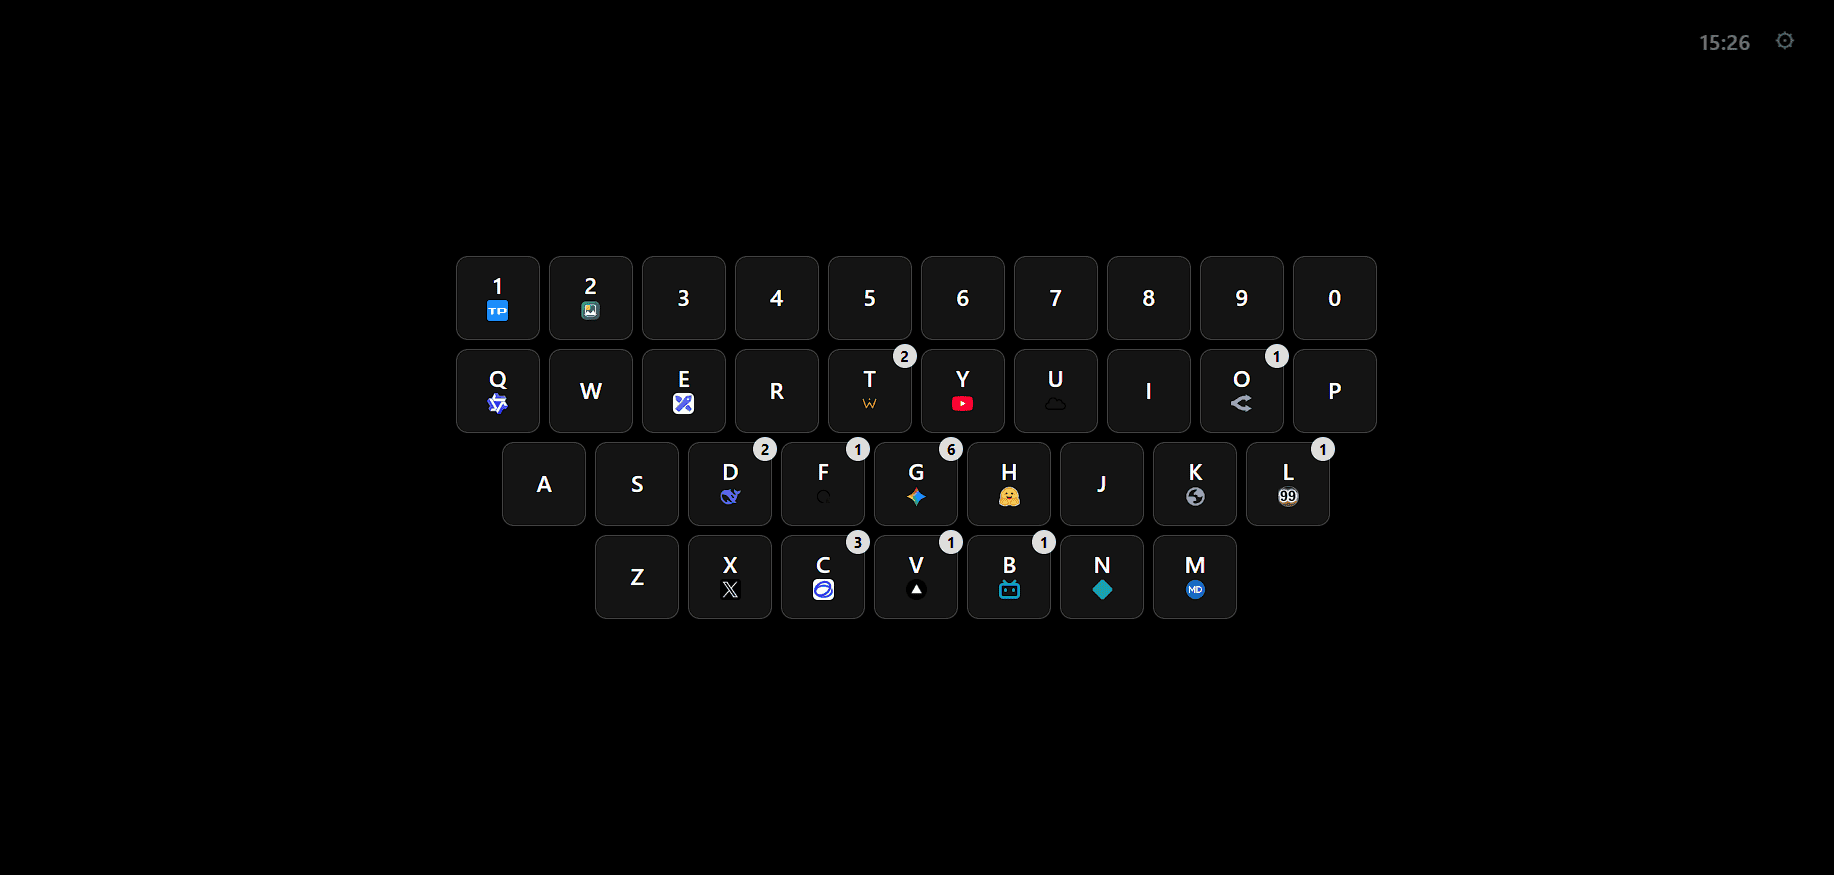
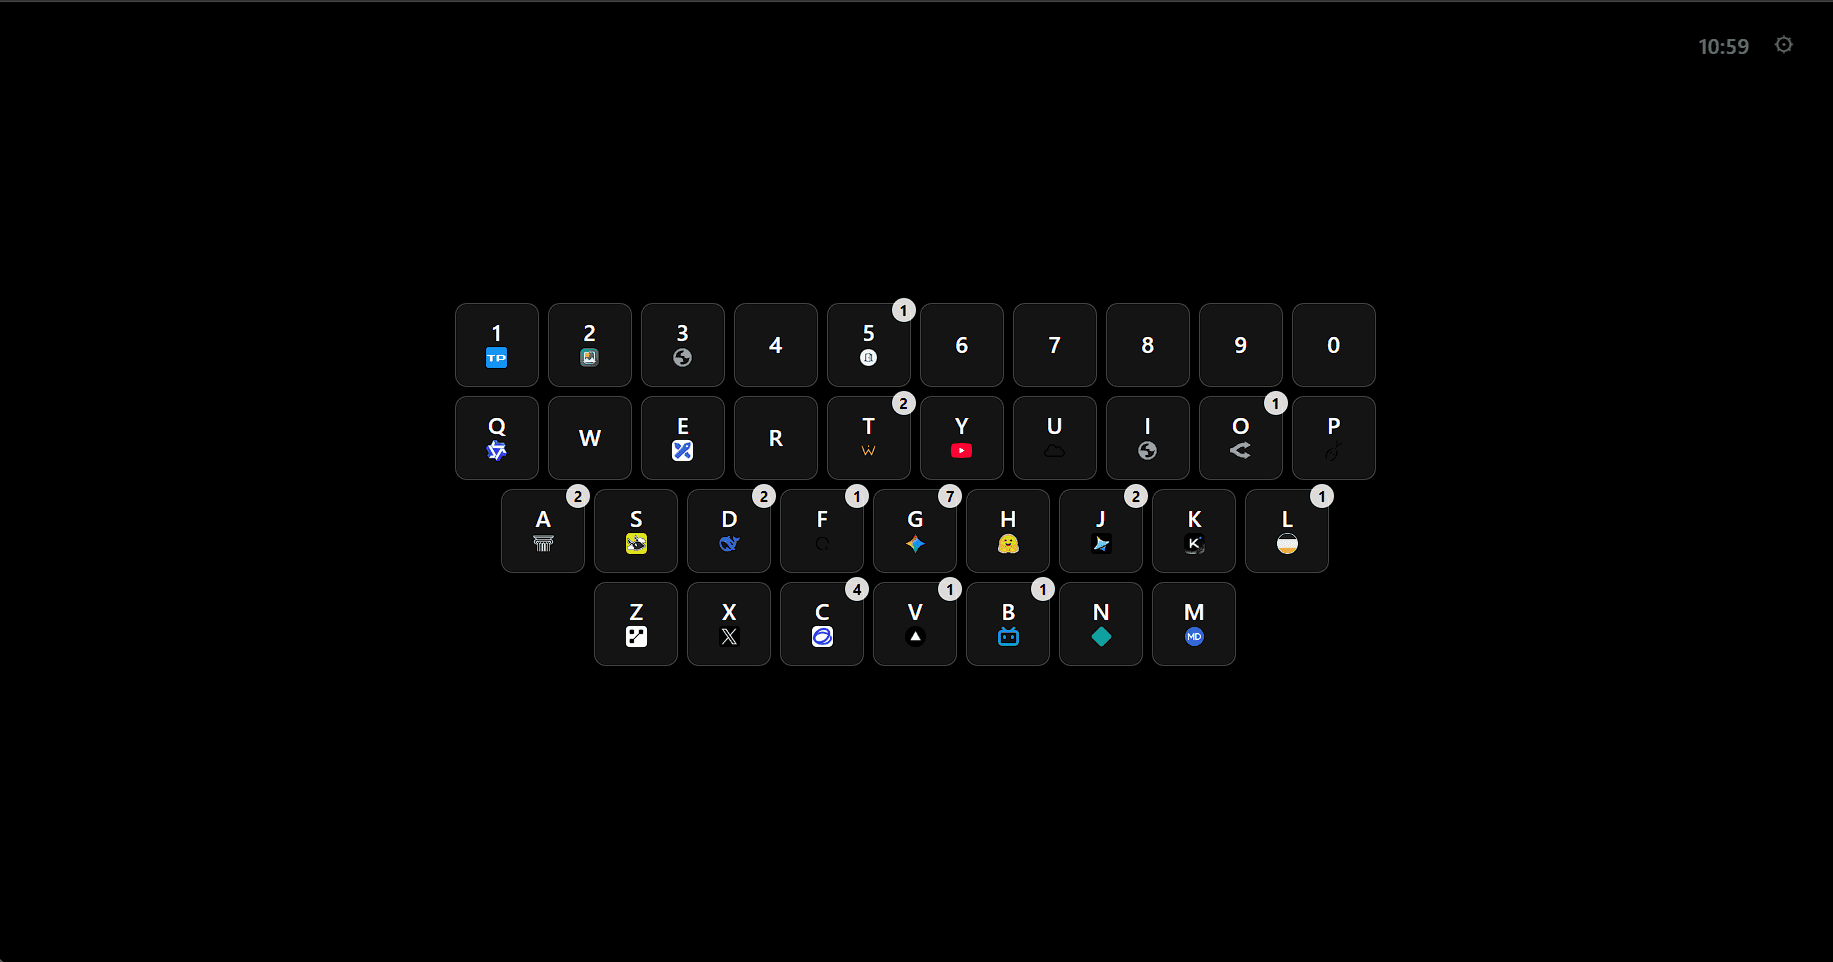
Site updated: 2026-06-09 11:01:45

diff --git a/blog/posts/zapstarttab/index.html b/blog/posts/zapstarttab/index.html
@@ -1,1 +1,1 @@
-<!DOCTYPE html><html><head><meta charset="UTF-8"><meta name="viewport" content="width=device-width, initial-scale=1.0"><title>ZapStartTab - 只是专注于打开网页的简陋新标签页 - for_the_zero的个人博客</title><link rel="icon" href="../../../assets/icon.svg" type="image/svg+xml"><link rel="preconnect" href="https://fonts.googleapis.com"><link rel="preconnect" href="https://fonts.gstatic.com" crossorigin><link rel="stylesheet" href="../../../assets/index-KBQHjjpf.css"><meta name="robots" content="index, follow"><meta name="cate" content="开发"><meta property="article:tag" content="项目介绍"><meta property="article:tag" content="前端"><meta property="article:tag" content="WebStack"><meta property="og:type" content="article"><meta property="og:url" content="https://ftz.is-a.dev/blog/posts/zapstarttab/"><meta property="og:locale" content="zh_CN"><meta property="article:modified_time" content="2026-06-07T16:00:00.000Z"><meta name="author" content="for_the_zero"><meta property="article:author" content="for_the_zero"><script defer src="https://cloud.umami.is/script.js" data-website-id="789c080e-8e99-4d72-bfce-7247187e96cc" data-exclude-query="true" data-exclude-hash></script><script src="https://giscus.app/client.js" data-repo="for-the-zero/for-the-zero.github.io" data-repo-id="R_kgDOPjQncg" data-category="Giscus" data-category-id="DIC_kwDOPjQncs4C0erQ" data-mapping="pathname" data-strict="0" data-reactions-enabled="1" data-emit-metadata="1" data-input-position="top" data-theme="preferred_color_scheme" data-lang="zh-CN" crossorigin="anonymous" async></script></head><body><mdui-top-app-bar scroll-behavior="elevate shrink" variant="large"><mdui-button-icon class="back-btn" href="../../"><mdui-icon-arrow-back></mdui-icon-arrow-back></mdui-button-icon><mdui-button-icon class="sidebar-open-btn"><mdui-icon-menu></mdui-icon-menu></mdui-button-icon><mdui-top-app-bar-title>ZapStartTab - 只是专注于打开网页的简陋新标签页</mdui-top-app-bar-title><div style="flex-grow: 1"></div><mdui-tooltip content="" placement="left"><mdui-button-icon class="open-content-drawer"><mdui-icon-menu-open></mdui-icon-menu-open></mdui-button-icon></mdui-tooltip></mdui-top-app-bar><mdui-navigation-drawer modal close-on-overlay-click close-on-esc class="sidebar"><div class="v-box"><mdui-list><mdui-list-item nonclickable><div slot="description" class="h-box"><mdui-avatar></mdui-avatar><span><!----></span></div></mdui-list-item><mdui-list-item rounded href="../../../"><mdui-icon-home slot="icon"></mdui-icon-home><span><!----></span></mdui-list-item><mdui-list-item rounded href="../../../intro/"><mdui-icon-badge slot="icon"></mdui-icon-badge><span><!----></span></mdui-list-item><mdui-list-item rounded href="../../../links/"><mdui-icon-link slot="icon"></mdui-icon-link><span><!----></span></mdui-list-item><mdui-list-item rounded active href="../../"><mdui-icon-article slot="icon"></mdui-icon-article><span><!----></span></mdui-list-item></mdui-list><div class="v-box"><div class="h-box glb-ctrl"><mdui-tooltip content=""><mdui-button-icon><mdui-icon-light></mdui-icon-light></mdui-button-icon></mdui-tooltip><mdui-tooltip content=""><mdui-button-icon><mdui-icon-translate></mdui-icon-translate></mdui-button-icon></mdui-tooltip><mdui-tooltip content=""><mdui-button-icon><mdui-icon-wallpaper></mdui-icon-wallpaper></mdui-button-icon></mdui-tooltip><div></div></div><p class="footer"><!----></p></div></div></mdui-navigation-drawer><main><div class="cate-tag"><mdui-tooltip placement="top"><mdui-chip variant="input"><mdui-icon-description--outlined slot="icon"></mdui-icon-description--outlined><span></span></mdui-chip><div slot="content"><span></span><span></span><br /><span></span><span></span><br /><span></span><span></span></div></mdui-tooltip></div><article class="mdui-prose article" id="article-content"><h1 id="zapstarttab" tabindex="-1">ZapStartTab</h1><p>今天vibe了一个浏览器插件，主要是解决一下我个人使用浏览器的一个痛点——我想要快速打开一些网页，但是我不希望新标签页太复杂，只希望像以前那样用about:blank</p><p>以前我用omnibox快速打开网页，在地址栏输入一个字母就够了，但问题是有些网站无论是名字还是url很相似，我还得按方向键选择选择，不太舒服，于是就有了这样一个vibe项目</p><p>为什么vibe呢？因为我懒得写</p><p>我轮番在OpenCode里面拷打了Deepseek V4 Flash和Mimo V2.5 Pro，把bug修好了，虽然但是无限用量真爽，烧了大概15M token</p><h2 id="%E4%BB%A3%E7%A0%81%E5%92%8C%E4%B8%8B%E8%BD%BD" tabindex="-1">代码和下载</h2><p>由于只是一个vibe项目，对我个人而言不值一提，我写这篇只是想水一水博客了，不放Github，但是放了<a href="https://gist.github.com/for-the-zero/869150a32a780054c3e5511fbfdc54d4" target="_blank" rel="noopener">Gist</a></p><p>其中几个options开头的文件是放在options文件夹内的，.base64结尾的文件是二进制文件，因为gist不能放二进制文件，我随手找了<a href="https://www.lddgo.net/convert/filebasesix" target="_blank" rel="noopener">一个工具</a>把文件转换成了base64，也可以恢复</p><p>里面包含插件文件，不过要你自己从base64转回来，也可以直接从博客下载<a href="../../img/ZapStartTab.zip" target="_blank" rel="noopener">ZapStartTab.zip</a></p><h2 id="%E4%BD%BF%E7%94%A8" tabindex="-1">使用</h2><p>打开新标签页一看，一片空白，是故意的</p><p>按下shift键不松开，你会看到一个键盘，右击其中的按键可以进行配置：</p><p><img src="../../img/screenshot_1780903625889.png" alt=""></p><p>这是我配置后的结果：</p><p><img src="../../img/screenshot_1780903610752.png" alt=""></p><p>配置后，你可以按住shift用鼠标点击上面的按键直接打开Primary Link，也可以按住鼠标后移动鼠标选择其它链接，在松开鼠标的时候打开：</p><p><img src="../../img/screenshot_1780903607718.png" alt=""></p><p>也可以在不按住shift的时候按下键盘上对应的按键，就能够在鼠标处自动弹出面板，移动鼠标选中，松开按键即可打开对应链接</p><p><img src="../../img/screenshot_1780903586679.png" alt=""></p><p>使用简单，操作也很简单</p></article><div class="auto-box postnav"><mdui-tooltip class="newer-post" content=""><mdui-card disabled class="v-box" variant="outlined" clickable><span class="h-box"><mdui-icon-arrow-back></mdui-icon-arrow-back><span><!----></span></span><span class="other-post-title"><!----></span></mdui-card></mdui-tooltip><div class="h-box postnav-part2"><mdui-tooltip content="" class="older-post"><mdui-card disabled class="v-box" variant="outlined" clickable><span class="h-box"><span><!----></span><mdui-icon-arrow-forward></mdui-icon-arrow-forward></span><span class="other-post-title"><!----></span></mdui-card></mdui-tooltip><mdui-tooltip content=""><mdui-card class="v-box rand-post" variant="outlined" clickable style="cursor: none !important;" disabled><mdui-icon><svg xmlns="http://www.w3.org/2000/svg" viewBox="0 0 24 24"><path d="M14 8C13.45 8 13 7.55 13 7S13.45 6 14 6C14.55 6 15 6.45 15 7C15 7.55 14.55 8 14 8M12 12V19H5V12H12M12.78 10H4.22C3.55 10 3 10.55 3 11.22V19.78C3 20.45 3.55 21 4.22 21H12.78C13.45 21 14 20.45 14 19.78V11.22C14 10.55 13.45 10 12.78 10M19.78 3H11.22C10.55 3 10 3.55 10 4.22V8H12V5H19V12H16V14H19.78C20.45 14 21 13.45 21 12.78V4.22C21 3.55 20.45 3 19.78 3M17 8C16.45 8 16 7.55 16 7S16.45 6 17 6C17.55 6 18 6.45 18 7C18 7.55 17.55 8 17 8M17 11C16.45 11 16 10.55 16 10S16.45 9 17 9C17.55 9 18 9.45 18 10C18 10.55 17.55 11 17 11M7 15C6.45 15 6 14.55 6 14S6.45 13 7 13C7.55 13 8 13.45 8 14C8 14.55 7.55 15 7 15M10 18C9.45 18 9 17.55 9 17S9.45 16 10 16C10.55 16 11 16.45 11 17C11 17.55 10.55 18 10 18" /></svg></mdui-icon></mdui-card></mdui-tooltip></div></div><div class="giscus"></div></main><aside><mdui-navigation-drawer modal close-on-esc close-on-overlay-click placement="right"><mdui-list class="toc-list"></mdui-list></mdui-navigation-drawer></aside><script id="toc-json" type="application/json">[{"text":"ZapStartTab","slug":"zapstarttab","children":[{"text":"代码和下载","slug":"%E4%BB%A3%E7%A0%81%E5%92%8C%E4%B8%8B%E8%BD%BD","children":null},{"text":"使用","slug":"%E4%BD%BF%E7%94%A8","children":null}]}]</script><script id="cate-tag-json" type="application/json">{"category":"开发","tags":["项目介绍","前端","WebStack"],"date":"2026/6/8"}</script><script type="application/json" id="postnav-json">{"zh-CN":{"newer":null,"older":["fenstego2","将我的个人网站模板大改了一下"],"all":["zapstarttab","fenstego2","thought2","vAIbe1","webtooys3-5","杂谈1","thought1","U盘MC","domains","webtooys3","isadev","siteupdate","newblog","MapPinner","LMCanvas","asak","又是英语演讲","taplesai","Quicktools2-5","Quicktools2","EnglishSpeechShare","CapsTools","Quicktools1","LLM对比","相机算法对比","一个提取手机apk的玩意","甩锅","adb-python-状态监控","关注AB视频更新","一段时间前做了一个DNA打结的东西","做了个叫PinCopy的玩意","tttpro","在scratch实现简单纯画笔排版","scil","一个迷宫的介绍","DearPyGui笔记"]},"en":{"newer":null,"older":null,"all":[]}}</script><script src="../自述/index.js" type="module"></script><script src="../自述/index.js" type="module"></script><script src="./index.js" type="module"></script></body></html>
+<!DOCTYPE html><html><head><meta charset="UTF-8"><meta name="viewport" content="width=device-width, initial-scale=1.0"><title>ZapStartTab - 只是专注于打开网页的简陋新标签页 - for_the_zero的个人博客</title><link rel="icon" href="../../../assets/icon.svg" type="image/svg+xml"><link rel="preconnect" href="https://fonts.googleapis.com"><link rel="preconnect" href="https://fonts.gstatic.com" crossorigin><link rel="stylesheet" href="../../../assets/index-KBQHjjpf.css"><meta name="robots" content="index, follow"><meta name="cate" content="开发"><meta property="article:tag" content="项目介绍"><meta property="article:tag" content="前端"><meta property="article:tag" content="WebStack"><meta property="og:type" content="article"><meta property="og:url" content="https://ftz.is-a.dev/blog/posts/zapstarttab/"><meta property="og:locale" content="zh_CN"><meta property="article:modified_time" content="2026-06-07T16:00:00.000Z"><meta name="author" content="for_the_zero"><meta property="article:author" content="for_the_zero"><script defer src="https://cloud.umami.is/script.js" data-website-id="789c080e-8e99-4d72-bfce-7247187e96cc" data-exclude-query="true" data-exclude-hash></script><script src="https://giscus.app/client.js" data-repo="for-the-zero/for-the-zero.github.io" data-repo-id="R_kgDOPjQncg" data-category="Giscus" data-category-id="DIC_kwDOPjQncs4C0erQ" data-mapping="pathname" data-strict="0" data-reactions-enabled="1" data-emit-metadata="1" data-input-position="top" data-theme="preferred_color_scheme" data-lang="zh-CN" crossorigin="anonymous" async></script></head><body><mdui-top-app-bar scroll-behavior="elevate shrink" variant="large"><mdui-button-icon class="back-btn" href="../../"><mdui-icon-arrow-back></mdui-icon-arrow-back></mdui-button-icon><mdui-button-icon class="sidebar-open-btn"><mdui-icon-menu></mdui-icon-menu></mdui-button-icon><mdui-top-app-bar-title>ZapStartTab - 只是专注于打开网页的简陋新标签页</mdui-top-app-bar-title><div style="flex-grow: 1"></div><mdui-tooltip content="" placement="left"><mdui-button-icon class="open-content-drawer"><mdui-icon-menu-open></mdui-icon-menu-open></mdui-button-icon></mdui-tooltip></mdui-top-app-bar><mdui-navigation-drawer modal close-on-overlay-click close-on-esc class="sidebar"><div class="v-box"><mdui-list><mdui-list-item nonclickable><div slot="description" class="h-box"><mdui-avatar></mdui-avatar><span><!----></span></div></mdui-list-item><mdui-list-item rounded href="../../../"><mdui-icon-home slot="icon"></mdui-icon-home><span><!----></span></mdui-list-item><mdui-list-item rounded href="../../../intro/"><mdui-icon-badge slot="icon"></mdui-icon-badge><span><!----></span></mdui-list-item><mdui-list-item rounded href="../../../links/"><mdui-icon-link slot="icon"></mdui-icon-link><span><!----></span></mdui-list-item><mdui-list-item rounded active href="../../"><mdui-icon-article slot="icon"></mdui-icon-article><span><!----></span></mdui-list-item></mdui-list><div class="v-box"><div class="h-box glb-ctrl"><mdui-tooltip content=""><mdui-button-icon><mdui-icon-light></mdui-icon-light></mdui-button-icon></mdui-tooltip><mdui-tooltip content=""><mdui-button-icon><mdui-icon-translate></mdui-icon-translate></mdui-button-icon></mdui-tooltip><mdui-tooltip content=""><mdui-button-icon><mdui-icon-wallpaper></mdui-icon-wallpaper></mdui-button-icon></mdui-tooltip><div></div></div><p class="footer"><!----></p></div></div></mdui-navigation-drawer><main><div class="cate-tag"><mdui-tooltip placement="top"><mdui-chip variant="input"><mdui-icon-description--outlined slot="icon"></mdui-icon-description--outlined><span></span></mdui-chip><div slot="content"><span></span><span></span><br /><span></span><span></span><br /><span></span><span></span></div></mdui-tooltip></div><article class="mdui-prose article" id="article-content"><h1 id="zapstarttab" tabindex="-1">ZapStartTab</h1><p>今天vibe了一个浏览器插件，主要是解决一下我个人使用浏览器的一个痛点——我想要快速打开一些网页，但是我不希望新标签页太复杂，只希望像以前那样用about:blank</p><p>以前我用omnibox快速打开网页，在地址栏输入一个字母就够了，但问题是有些网站无论是名字还是url很相似，我还得按方向键选择选择，不太舒服，于是就有了这样一个vibe项目</p><p>为什么vibe呢？因为我懒得写</p><p>我轮番在OpenCode里面拷打了Deepseek V4 Flash和Mimo V2.5 Pro，把bug修好了，虽然但是无限用量真爽，烧了大概15M token</p><h2 id="%E4%BB%A3%E7%A0%81%E5%92%8C%E4%B8%8B%E8%BD%BD" tabindex="-1">代码和下载</h2><p>由于只是一个vibe项目，对我个人而言不值一提，我写这篇只是想水一水博客了，不放Github，但是放了<a href="https://gist.github.com/for-the-zero/869150a32a780054c3e5511fbfdc54d4" target="_blank" rel="noopener">Gist</a></p><p>其中几个options开头的文件是放在options文件夹内的，.base64结尾的文件是二进制文件，因为gist不能放二进制文件，我随手找了<a href="https://www.lddgo.net/convert/filebasesix" target="_blank" rel="noopener">一个工具</a>把文件转换成了base64，也可以恢复</p><p>里面包含插件文件，不过要你自己从base64转回来，也可以直接从博客下载<a href="../../img/ZapStartTab.zip" target="_blank" rel="noopener">ZapStartTab.zip</a></p><h2 id="%E4%BD%BF%E7%94%A8" tabindex="-1">使用</h2><p>打开新标签页一看，一片空白，是故意的</p><p>按下shift键不松开，你会看到一个键盘，右击其中的按键可以进行配置：</p><p><img src="../../img/screenshot_1780903625889.png" alt=""></p><p>这是我配置后的结果：</p><p><img src="../../img/screenshot_1780903610752.png" alt=""></p><p>配置后，你可以按住shift用鼠标点击上面的按键直接打开Primary Link，也可以按住鼠标后移动鼠标选择其它链接，在松开鼠标的时候打开：</p><p><img src="../../img/screenshot_1780903607718.png" alt=""></p><p>也可以在不按住shift的时候按下键盘上对应的按键，就能够在鼠标处自动弹出面板，移动鼠标选中，松开按键即可打开对应链接</p><p><img src="../../img/screenshot_1780903586679.png" alt=""></p><p>使用简单，操作也很简单</p><mdui-divider></mdui-divider><p>次日二编：怎么这么多bug，怎么有的按键设置不上（再度拷打现在应该是修好了）</p></article><div class="auto-box postnav"><mdui-tooltip class="newer-post" content=""><mdui-card disabled class="v-box" variant="outlined" clickable><span class="h-box"><mdui-icon-arrow-back></mdui-icon-arrow-back><span><!----></span></span><span class="other-post-title"><!----></span></mdui-card></mdui-tooltip><div class="h-box postnav-part2"><mdui-tooltip content="" class="older-post"><mdui-card disabled class="v-box" variant="outlined" clickable><span class="h-box"><span><!----></span><mdui-icon-arrow-forward></mdui-icon-arrow-forward></span><span class="other-post-title"><!----></span></mdui-card></mdui-tooltip><mdui-tooltip content=""><mdui-card class="v-box rand-post" variant="outlined" clickable style="cursor: none !important;" disabled><mdui-icon><svg xmlns="http://www.w3.org/2000/svg" viewBox="0 0 24 24"><path d="M14 8C13.45 8 13 7.55 13 7S13.45 6 14 6C14.55 6 15 6.45 15 7C15 7.55 14.55 8 14 8M12 12V19H5V12H12M12.78 10H4.22C3.55 10 3 10.55 3 11.22V19.78C3 20.45 3.55 21 4.22 21H12.78C13.45 21 14 20.45 14 19.78V11.22C14 10.55 13.45 10 12.78 10M19.78 3H11.22C10.55 3 10 3.55 10 4.22V8H12V5H19V12H16V14H19.78C20.45 14 21 13.45 21 12.78V4.22C21 3.55 20.45 3 19.78 3M17 8C16.45 8 16 7.55 16 7S16.45 6 17 6C17.55 6 18 6.45 18 7C18 7.55 17.55 8 17 8M17 11C16.45 11 16 10.55 16 10S16.45 9 17 9C17.55 9 18 9.45 18 10C18 10.55 17.55 11 17 11M7 15C6.45 15 6 14.55 6 14S6.45 13 7 13C7.55 13 8 13.45 8 14C8 14.55 7.55 15 7 15M10 18C9.45 18 9 17.55 9 17S9.45 16 10 16C10.55 16 11 16.45 11 17C11 17.55 10.55 18 10 18" /></svg></mdui-icon></mdui-card></mdui-tooltip></div></div><div class="giscus"></div></main><aside><mdui-navigation-drawer modal close-on-esc close-on-overlay-click placement="right"><mdui-list class="toc-list"></mdui-list></mdui-navigation-drawer></aside><script id="toc-json" type="application/json">[{"text":"ZapStartTab","slug":"zapstarttab","children":[{"text":"代码和下载","slug":"%E4%BB%A3%E7%A0%81%E5%92%8C%E4%B8%8B%E8%BD%BD","children":null},{"text":"使用","slug":"%E4%BD%BF%E7%94%A8","children":null}]}]</script><script id="cate-tag-json" type="application/json">{"category":"开发","tags":["项目介绍","前端","WebStack"],"date":"2026/6/8"}</script><script type="application/json" id="postnav-json">{"zh-CN":{"newer":null,"older":["fenstego2","将我的个人网站模板大改了一下"],"all":["zapstarttab","fenstego2","thought2","vAIbe1","webtooys3-5","杂谈1","thought1","U盘MC","domains","webtooys3","isadev","siteupdate","newblog","MapPinner","LMCanvas","asak","又是英语演讲","taplesai","Quicktools2-5","Quicktools2","EnglishSpeechShare","CapsTools","Quicktools1","LLM对比","相机算法对比","一个提取手机apk的玩意","甩锅","adb-python-状态监控","关注AB视频更新","一段时间前做了一个DNA打结的东西","做了个叫PinCopy的玩意","tttpro","在scratch实现简单纯画笔排版","scil","一个迷宫的介绍","DearPyGui笔记"]},"en":{"newer":null,"older":null,"all":[]}}</script><script src="../自述/index.js" type="module"></script><script src="../自述/index.js" type="module"></script><script src="./index.js" type="module"></script></body></html>
